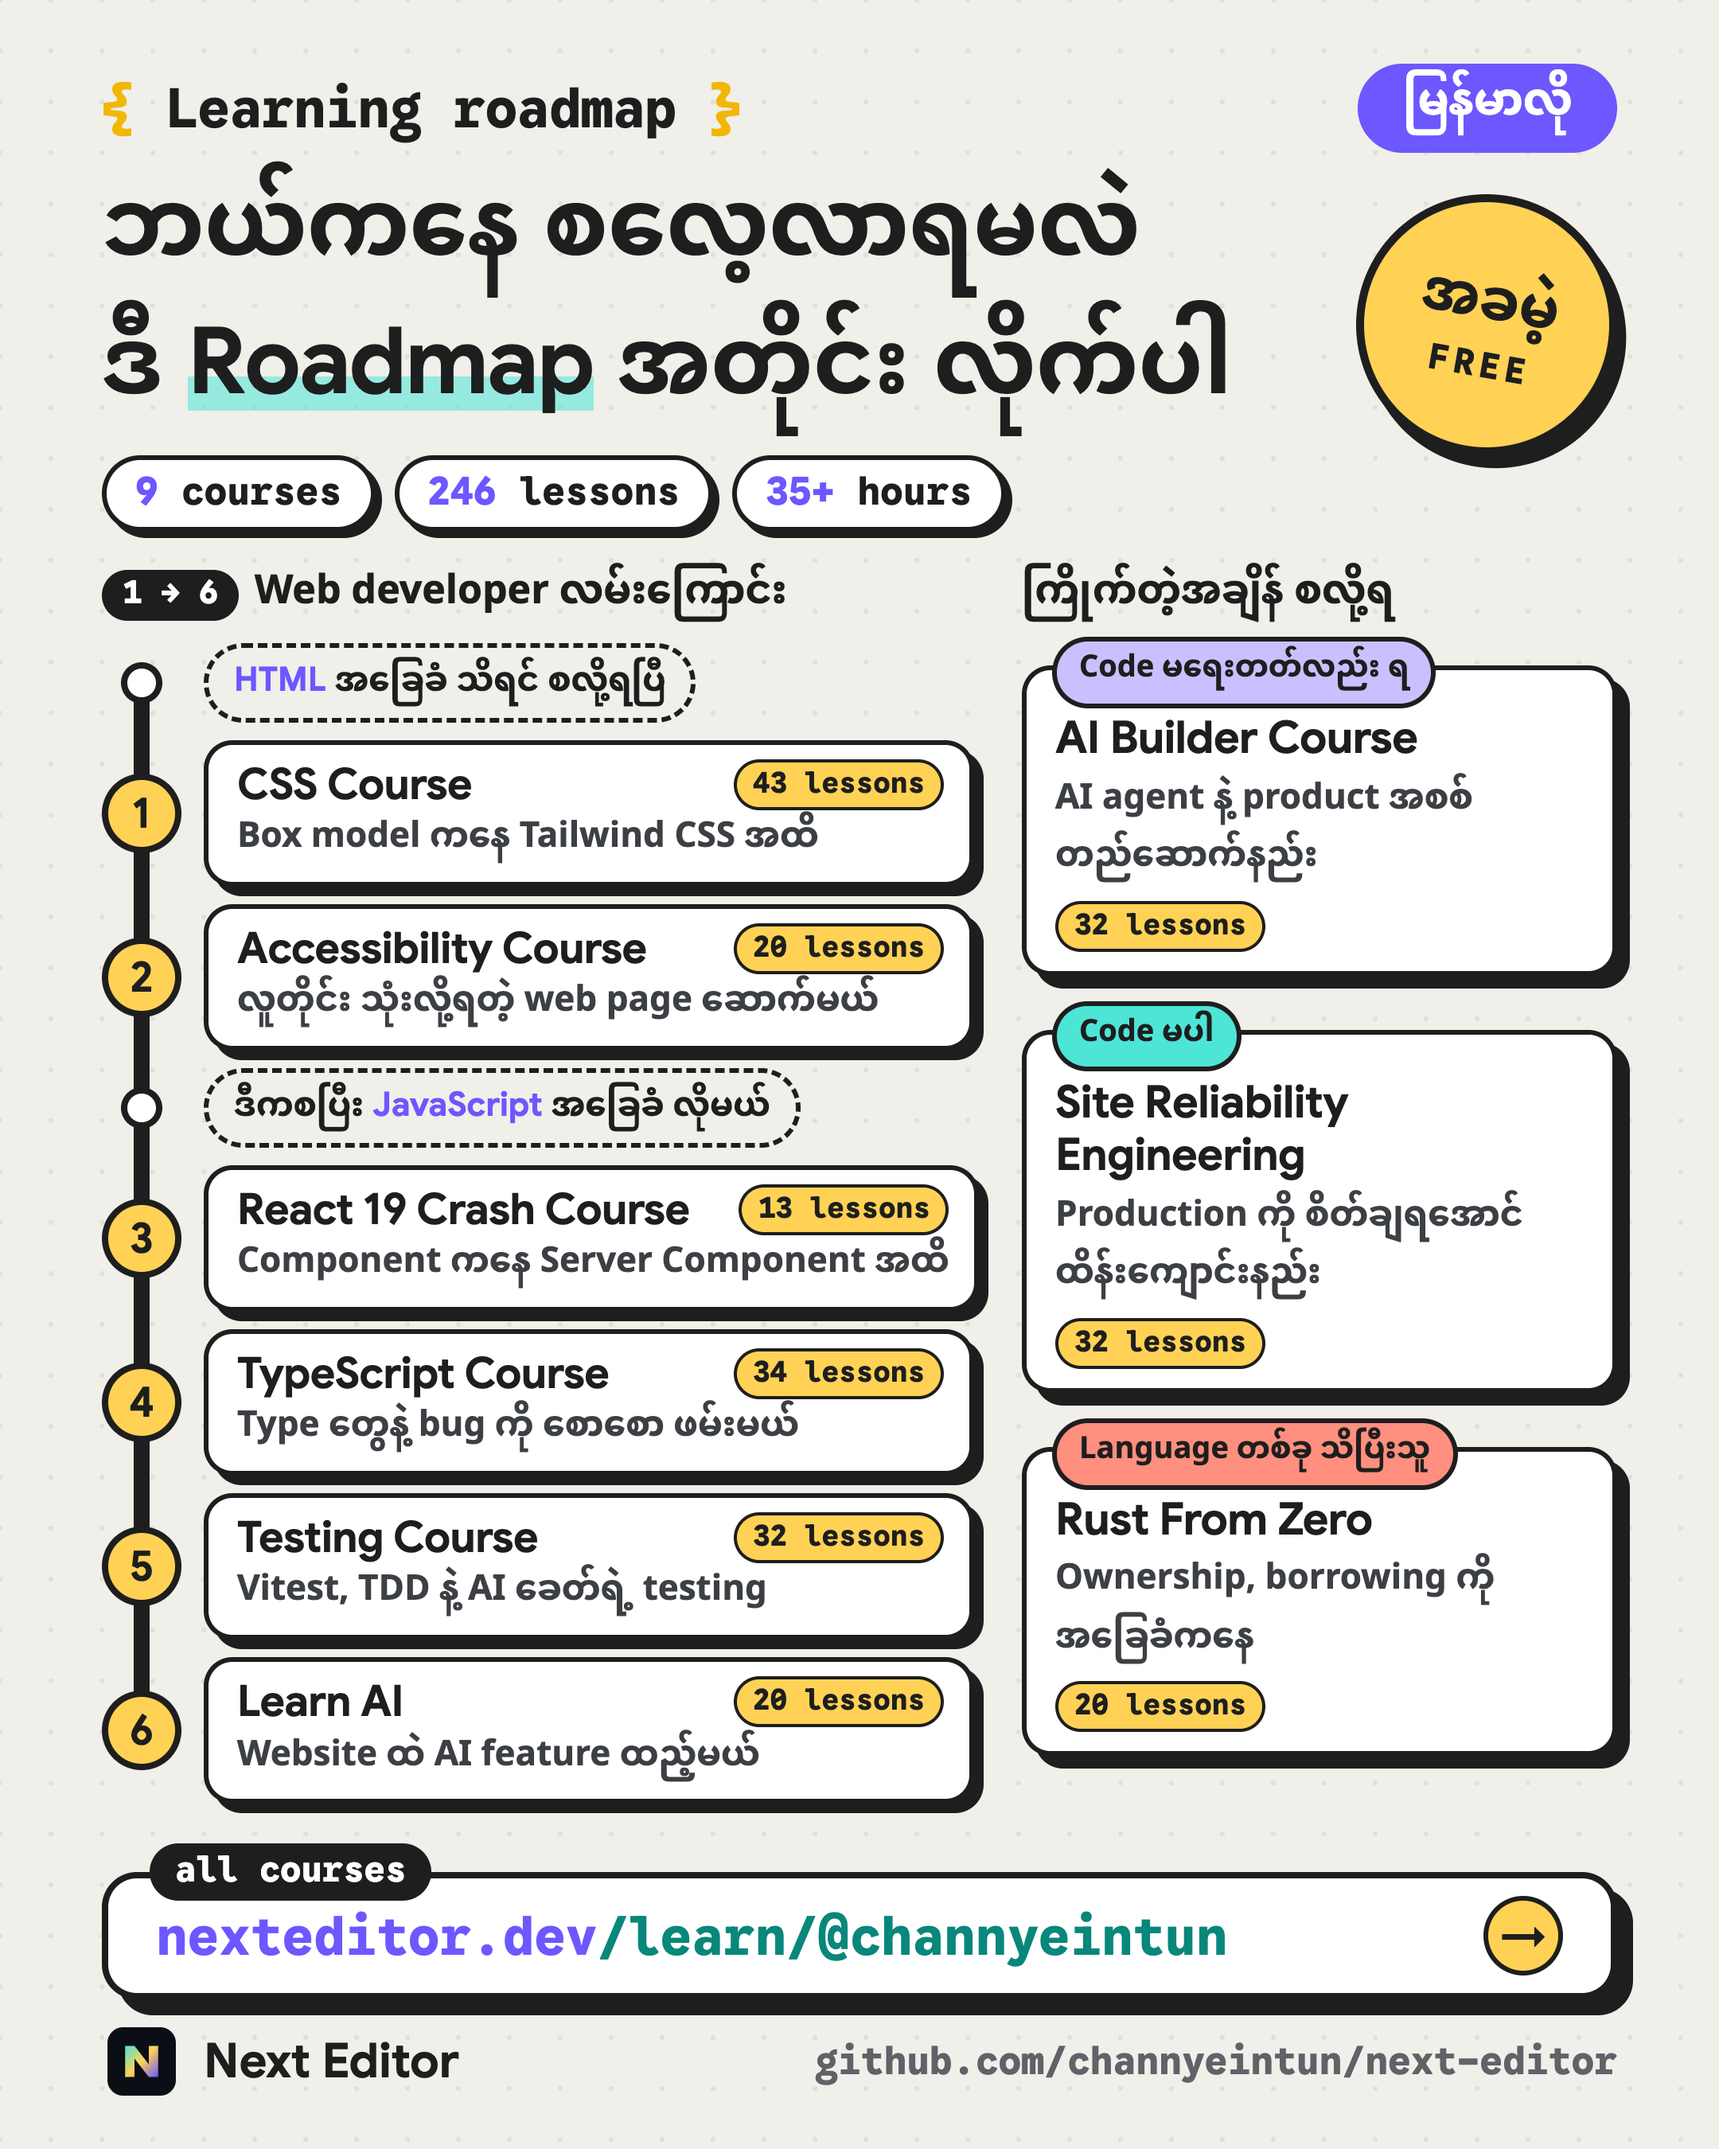
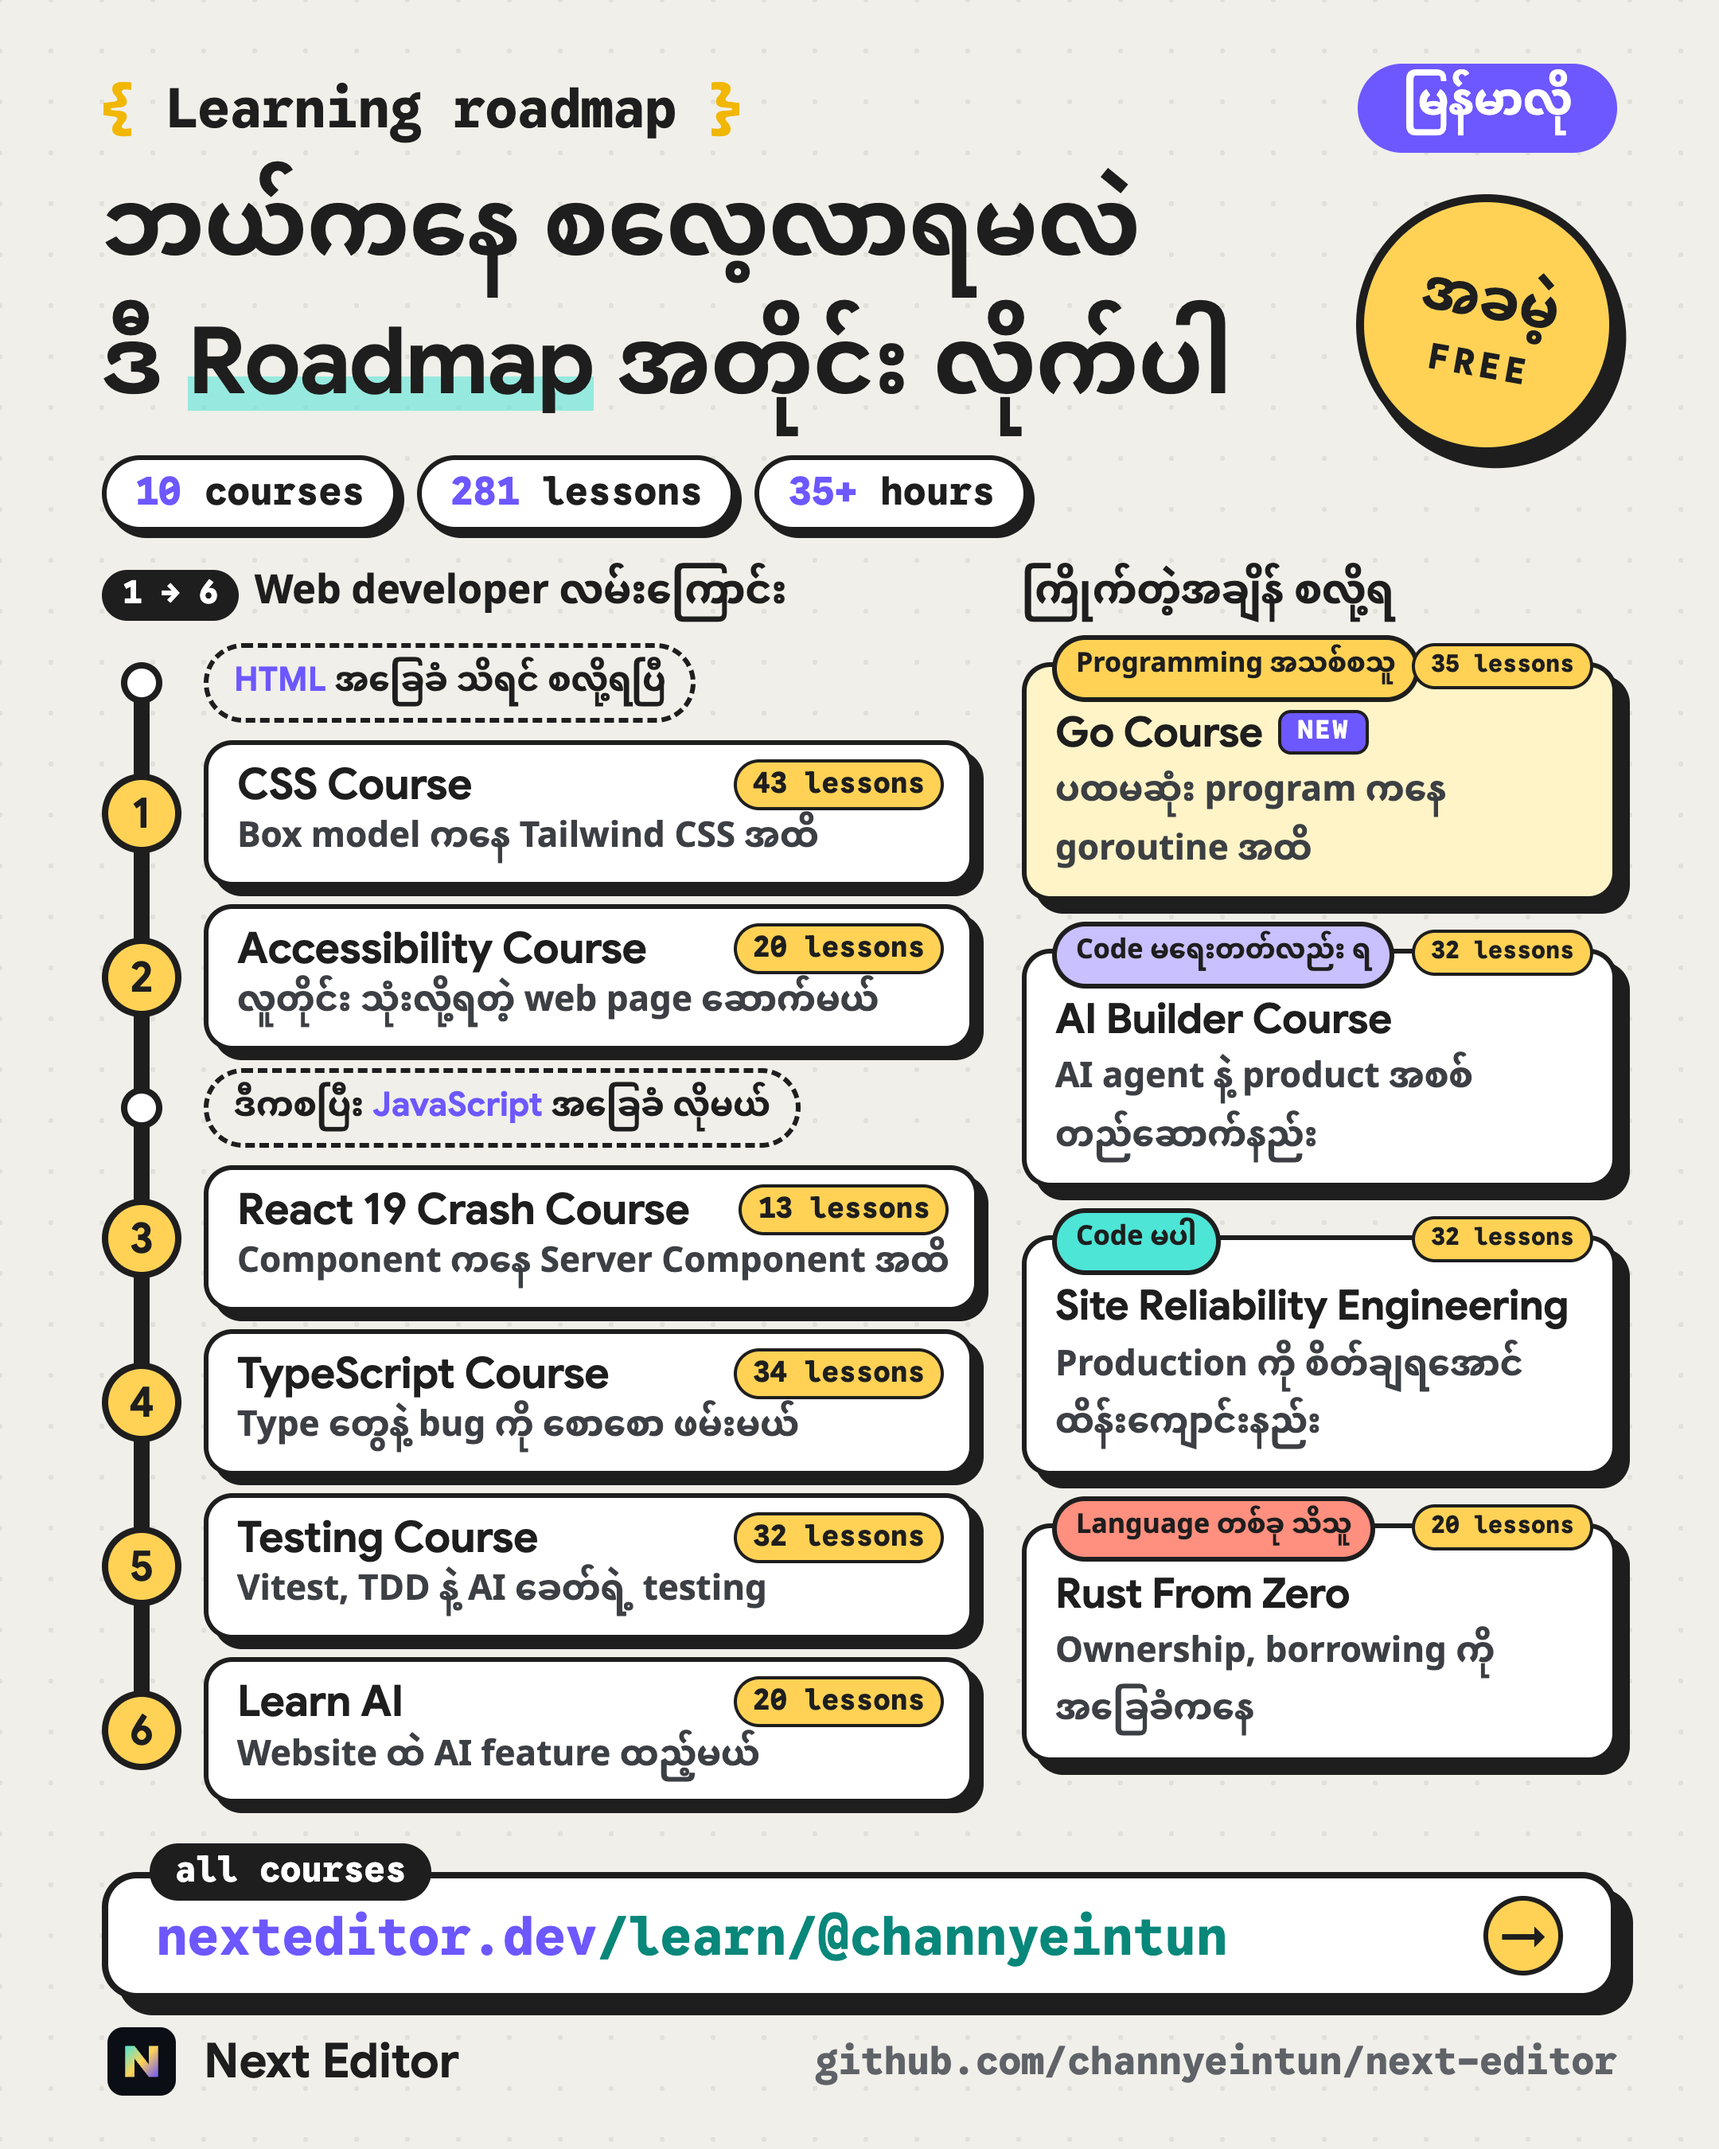
docs: add the Go course to the learning roadmap poster
The Go course (35 lessons, marked new) heads the start-any-time column as the course for people who
have never programmed; the totals read 10 courses and 281 lessons.

Changed region(s): [[0.5894, 0.28, 0.9616, 0.84], [0.3722, 0.2178, 0.6204, 0.2489], [0.0931, 0.2178, 0.3412, 0.2489]]

diff --git a/docs/learning-roadmap-poster.html b/docs/learning-roadmap-poster.html
@@ -11,15 +11,17 @@
       href="https://fonts.googleapis.com/css2?family=Google+Sans:wght@400..700&family=Google+Sans+Code:wght@400..700&family=Noto+Sans+Myanmar:wght@400;700&display=block"
     />
     <!--
-      The learning roadmap for the nine Burmese courses, 1080×1350 (4:5, the tallest
+      The learning roadmap for the ten Burmese courses, 1080×1350 (4:5, the tallest
       image a Facebook feed shows whole). Same brand as docs/css-course-poster.html:
       cream page, ink, yellow/purple/teal, Google Sans + Google Sans Code, Burmese in
       Noto Sans Myanmar.
 
       The left rail is the web developer path, in the order to take it; the two dashed
       notes on it are what the courses assume but do not teach (HTML, JavaScript). The
-      right column holds the three courses that need none of the others. Lesson counts
-      are the published playlists' (246 in all, about 35 hours).
+      right column holds the four courses that need none of the others, the Go course
+      (marked new) first because it starts from no programming at all. Lesson counts are
+      the playlists' (281 in all: 246 published before the Go course's 35; about 35 hours
+      before Go).
 
       Render it with `bun docs/learning-roadmap-poster-render.ts` (writes
       docs/learning-roadmap-poster.png).
@@ -300,30 +302,47 @@
       .side {
         display: flex;
         flex-direction: column;
-        gap: 34px;
-        padding-top: 14px;
+        gap: 30px;
+        padding-top: 12px;
       }
 
       .side .course {
         position: relative;
-        padding: 26px 18px 12px;
+        padding: 26px 18px 10px;
         box-shadow: 8px 8px 0 var(--ink);
+      }
+
+      .side .course.new {
+        background: #fff4c7;
+      }
+
+      .side .course .badge {
+        display: inline-block;
+        margin-left: 10px;
+        padding: 3px 10px 5px;
+        border: 2.5px solid var(--ink);
+        border-radius: 8px;
+        background: var(--purple);
+        color: var(--white);
+        font: 700 16px/1 var(--mono);
+        letter-spacing: 0.08em;
+        vertical-align: 5px;
       }
 
       .side .course .who {
         position: absolute;
         left: 16px;
-        top: -21px;
-        padding: 3px 14px 5px;
+        top: -20px;
+        padding: 3px 12px 5px;
         border: 3px solid var(--ink);
         border-radius: 999px;
-        font: 700 19px/1.62 var(--mm);
+        font: 700 17px/1.62 var(--mm);
         white-space: nowrap;
       }
 
       .side .course .name {
         white-space: normal;
-        font-size: 28px;
+        font-size: 26px;
       }
 
       .side .course .what {
@@ -332,9 +351,12 @@
         line-height: 1.66;
       }
 
+      /* The count sits on the card's top border, opposite the audience tag. */
       .side .course .count {
-        display: inline-block;
-        margin-top: 8px;
+        position: absolute;
+        right: 12px;
+        top: -15px;
+        font-size: 15px;
       }
 
       /* ---- link + footer ---- */
@@ -438,8 +460,8 @@
       </div>
 
       <div class="stats">
-        <span class="stat"><b>9</b> courses</span>
-        <span class="stat"><b>246</b> lessons</span>
+        <span class="stat"><b>10</b> courses</span>
+        <span class="stat"><b>281</b> lessons</span>
         <span class="stat"><b>35+</b> hours</span>
       </div>
 
@@ -524,25 +546,32 @@
         <section>
           <h2 class="col-title">ကြိုက်တဲ့အချိန် စလို့ရ</h2>
           <div class="side">
+            <div class="course new">
+              <span class="who" style="background: var(--yellow)">Programming အသစ်စသူ</span>
+              <span class="count">35 lessons</span>
+              <div class="name">Go Course<span class="badge">NEW</span></div>
+              <div class="what">ပထမဆုံး program ကနေ goroutine အထိ</div>
+            </div>
+
             <div class="course">
               <span class="who" style="background: var(--purple-lt)">Code မရေးတတ်လည်း ရ</span>
+              <span class="count">32 lessons</span>
               <div class="name">AI Builder Course</div>
               <div class="what">AI agent နဲ့ product အစစ် တည်ဆောက်နည်း</div>
-              <span class="count">32 lessons</span>
             </div>
 
             <div class="course">
               <span class="who" style="background: var(--teal)">Code မပါ</span>
+              <span class="count">32 lessons</span>
               <div class="name">Site Reliability Engineering</div>
               <div class="what">Production ကို စိတ်ချရအောင် ထိန်းကျောင်းနည်း</div>
-              <span class="count">32 lessons</span>
             </div>
 
             <div class="course">
-              <span class="who" style="background: var(--coral)">Language တစ်ခု သိပြီးသူ</span>
+              <span class="who" style="background: var(--coral)">Language တစ်ခု သိသူ</span>
+              <span class="count">20 lessons</span>
               <div class="name">Rust From Zero</div>
               <div class="what">Ownership, borrowing ကို အခြေခံကနေ</div>
-              <span class="count">20 lessons</span>
             </div>
           </div>
         </section>
